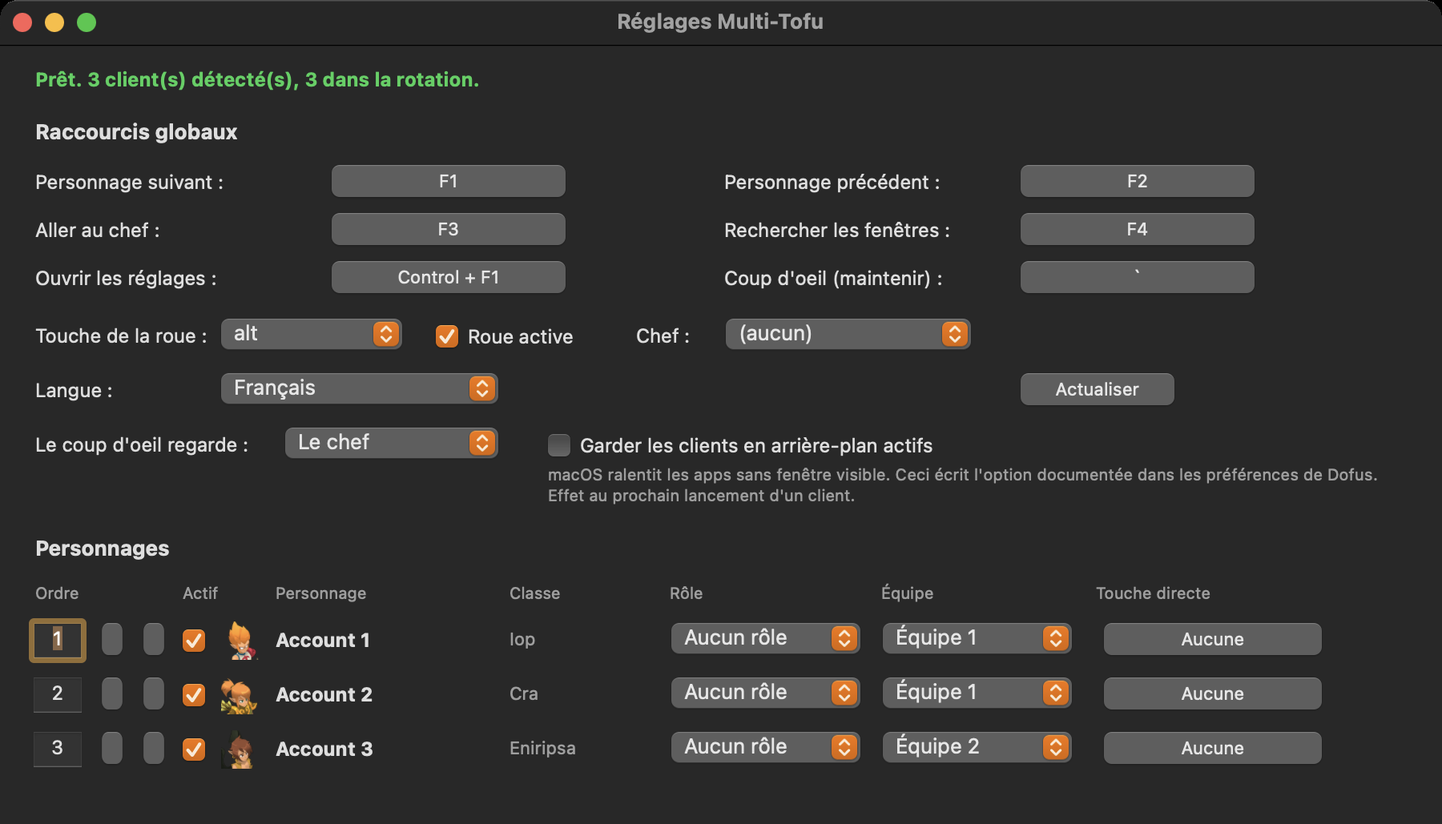
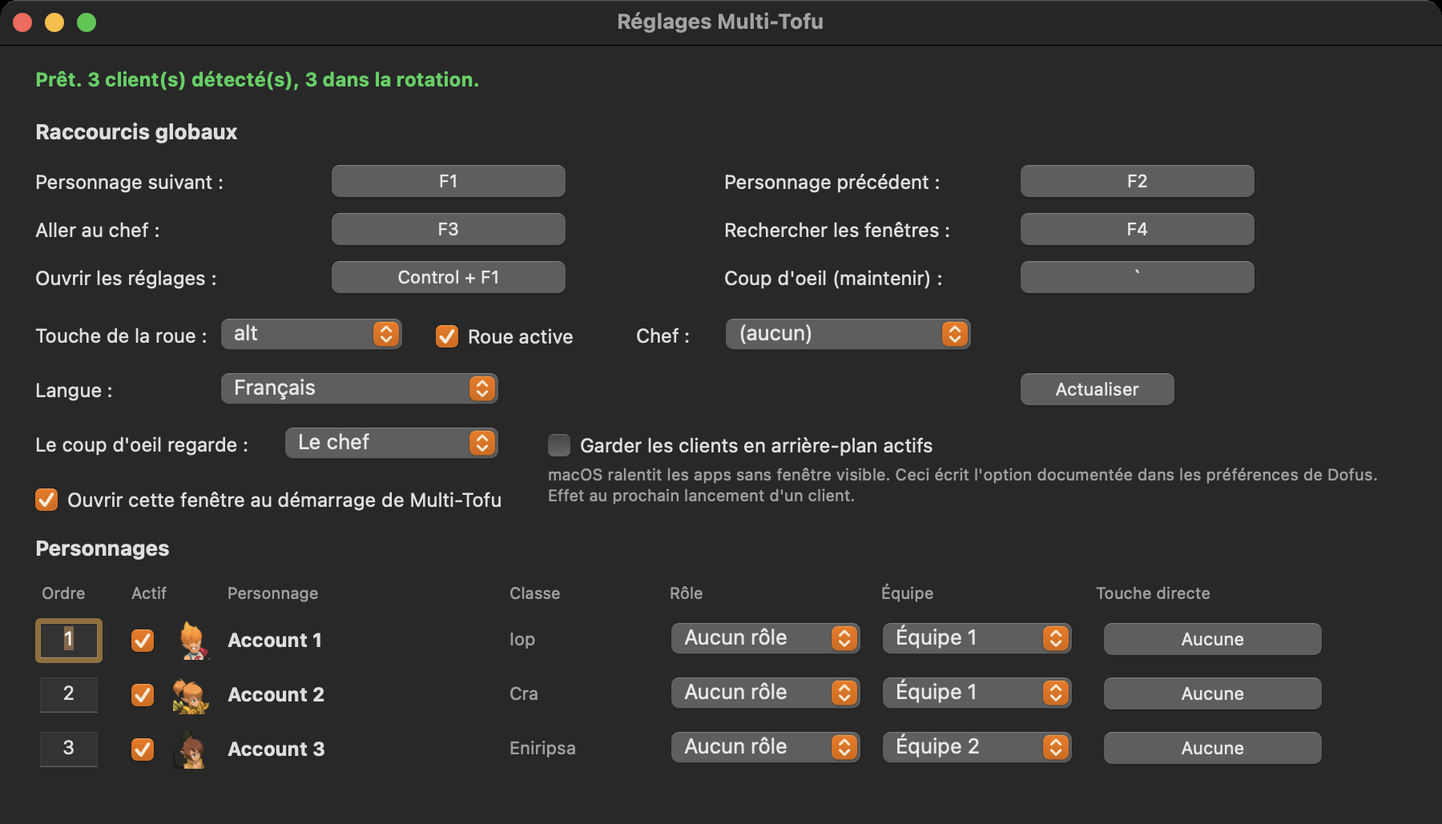
0.2.3: drop the dead reorder arrows, document 0.2.x everywhere
The two arrow buttons beside each character never rendered their glyphs
and the number field replaced what they did, so they were two blank grey
squares doing nothing visible. Removed, and the character columns close up.

Documentation catches up with everything shipped in 0.2.x:
  - the landing page gains cards for opening on launch and for one key one
    action, in all four languages. About 780 words a page, up from 730
  - the four readmes gain the same two entries
  - the settings screenshot is regenerated from the current build, with
    roles, teams, a leader and the position fields visible. The old one
    predated all of it and still named a character that no longer exists

Build
  - codesign is retried after a second attribute clean, and the signature
    is verified before the script reports success. PlistBuddy and
    PyInstaller both leave attributes that codesign refuses to sign over,
    which was failing silently and needing a manual re-sign

Changed region(s): [[0.0, 0.7153, 0.2489, 0.9329], [0.0, 0.5909, 0.3422, 0.622]]

diff --git a/docs/fr/index.html b/docs/fr/index.html
@@ -25,7 +25,7 @@
   <meta name="theme-color" content="#4a4076">
   <link rel="icon" type="image/png" sizes="32x32" href="../assets/favicon-32.png">
   <link rel="apple-touch-icon" href="../assets/apple-touch-icon.png">
-  <script type="application/ld+json">{"@context": "https://schema.org", "@type": "SoftwareApplication", "name": "Multi-Tofu", "applicationCategory": "UtilitiesApplication", "applicationSubCategory": "Game utility", "operatingSystem": "macOS 12 or later", "softwareVersion": "0.2.2", "url": "https://minutesback.github.io/multi-tofu/fr/", "downloadUrl": "https://github.com/MinutesBack/multi-tofu/releases/latest", "installUrl": "https://github.com/MinutesBack/multi-tofu/releases", "codeRepository": "https://github.com/MinutesBack/multi-tofu", "license": "https://www.apache.org/licenses/LICENSE-2.0", "isAccessibleForFree": true, "inLanguage": ["en", "fr", "es", "pt"], "description": "Outil multicompte Dofus gratuit et open source pour macOS. Basculez entre vos clients avec F1, roue des personnages et équipes. Apple Silicon et Intel.", "image": "https://minutesback.github.io/multi-tofu/assets/og-card.png", "offers": {"@type": "Offer", "price": "0", "priceCurrency": "USD"}, "author": {"@type": "Organization", "name": "MinutesBack", "url": "https://github.com/MinutesBack"}}</script>
+  <script type="application/ld+json">{"@context": "https://schema.org", "@type": "SoftwareApplication", "name": "Multi-Tofu", "applicationCategory": "UtilitiesApplication", "applicationSubCategory": "Game utility", "operatingSystem": "macOS 12 or later", "softwareVersion": "0.2.3", "url": "https://minutesback.github.io/multi-tofu/fr/", "downloadUrl": "https://github.com/MinutesBack/multi-tofu/releases/latest", "installUrl": "https://github.com/MinutesBack/multi-tofu/releases", "codeRepository": "https://github.com/MinutesBack/multi-tofu", "license": "https://www.apache.org/licenses/LICENSE-2.0", "isAccessibleForFree": true, "inLanguage": ["en", "fr", "es", "pt"], "description": "Outil multicompte Dofus gratuit et open source pour macOS. Basculez entre vos clients avec F1, roue des personnages et équipes. Apple Silicon et Intel.", "image": "https://minutesback.github.io/multi-tofu/assets/og-card.png", "offers": {"@type": "Offer", "price": "0", "priceCurrency": "USD"}, "author": {"@type": "Organization", "name": "MinutesBack", "url": "https://github.com/MinutesBack"}}</script>
   <style>
 :root{--grape:#4a4076;--grape-deep:#342c58;--grape-soft:#655a9e;--cream:#fff6e8;
 --sunny:#ffc94a;--mint:#5fe0b0;--ink:#2e2650;--muted:#6b6390;--card:#ffffff}
@@ -117,7 +117,7 @@ footer a{color:var(--cream)}
           <a class="btn" href="https://github.com/MinutesBack/multi-tofu/releases/latest">Télécharger pour macOS</a>
           <a class="btn-ghost" href="https://github.com/MinutesBack/multi-tofu">Voir le code source</a>
         </div>
-        <p class="sub">Gratuit et open source. Apple Silicon et Intel. Version 0.2.2.</p>
+        <p class="sub">Gratuit et open source. Apple Silicon et Intel. Version 0.2.3.</p>
       </div>
       <div class="hero-art">
         <img src="../wheel.png" alt="La roue des personnages de Multi-Tofu, six personnages Dofus en cercle avec celui survolé mis en avant" width="640" height="640">
@@ -140,6 +140,8 @@ footer a{color:var(--cream)}
       <div class="card"><h3>Coup d&#x27;oeil</h3><p>Maintenez une touche pour regarder un autre client, relâchez et vous revenez exactement où vous étiez, place dans la rotation comprise.</p></div>
       <div class="card"><h3>Ordre au clavier</h3><p>Tapez un numéro pour placer un personnage. Trier une équipe par initiative prend six frappes, pas vingt clics sur une flèche.</p></div>
       <div class="card"><h3>Tout est conservé</h3><p>Ordre, équipes, rôles, chef et chaque raccourci sont écrits sur le disque au fil de vos changements, par personnage. Revenez la semaine prochaine, rien n&#x27;a bougé.</p></div>
+      <div class="card"><h3>Ouvre sur vos réglages</h3><p>Lancer Multi-Tofu ouvre les réglages, on ne se demande jamais s&#x27;il a démarré. Désactivable en un clic si vous préférez le silence.</p></div>
+      <div class="card"><h3>Une touche, une action</h3><p>Attribuer une touche déjà prise la libère chez l&#x27;autre action. Deux actions sur une touche, c&#x27;est une des deux qui ne se déclenche jamais.</p></div>
     </div>
   </section>
 

diff --git a/docs/es/index.html b/docs/es/index.html
@@ -25,7 +25,7 @@
   <meta name="theme-color" content="#4a4076">
   <link rel="icon" type="image/png" sizes="32x32" href="../assets/favicon-32.png">
   <link rel="apple-touch-icon" href="../assets/apple-touch-icon.png">
-  <script type="application/ld+json">{"@context": "https://schema.org", "@type": "SoftwareApplication", "name": "Multi-Tofu", "applicationCategory": "UtilitiesApplication", "applicationSubCategory": "Game utility", "operatingSystem": "macOS 12 or later", "softwareVersion": "0.2.2", "url": "https://minutesback.github.io/multi-tofu/es/", "downloadUrl": "https://github.com/MinutesBack/multi-tofu/releases/latest", "installUrl": "https://github.com/MinutesBack/multi-tofu/releases", "codeRepository": "https://github.com/MinutesBack/multi-tofu", "license": "https://www.apache.org/licenses/LICENSE-2.0", "isAccessibleForFree": true, "inLanguage": ["en", "fr", "es", "pt"], "description": "Herramienta multicuenta de Dofus gratuita y de código abierto para macOS. Cambia de cliente con F1, rueda de personajes y equipos. Apple Silicon e Intel.", "image": "https://minutesback.github.io/multi-tofu/assets/og-card.png", "offers": {"@type": "Offer", "price": "0", "priceCurrency": "USD"}, "author": {"@type": "Organization", "name": "MinutesBack", "url": "https://github.com/MinutesBack"}}</script>
+  <script type="application/ld+json">{"@context": "https://schema.org", "@type": "SoftwareApplication", "name": "Multi-Tofu", "applicationCategory": "UtilitiesApplication", "applicationSubCategory": "Game utility", "operatingSystem": "macOS 12 or later", "softwareVersion": "0.2.3", "url": "https://minutesback.github.io/multi-tofu/es/", "downloadUrl": "https://github.com/MinutesBack/multi-tofu/releases/latest", "installUrl": "https://github.com/MinutesBack/multi-tofu/releases", "codeRepository": "https://github.com/MinutesBack/multi-tofu", "license": "https://www.apache.org/licenses/LICENSE-2.0", "isAccessibleForFree": true, "inLanguage": ["en", "fr", "es", "pt"], "description": "Herramienta multicuenta de Dofus gratuita y de código abierto para macOS. Cambia de cliente con F1, rueda de personajes y equipos. Apple Silicon e Intel.", "image": "https://minutesback.github.io/multi-tofu/assets/og-card.png", "offers": {"@type": "Offer", "price": "0", "priceCurrency": "USD"}, "author": {"@type": "Organization", "name": "MinutesBack", "url": "https://github.com/MinutesBack"}}</script>
   <style>
 :root{--grape:#4a4076;--grape-deep:#342c58;--grape-soft:#655a9e;--cream:#fff6e8;
 --sunny:#ffc94a;--mint:#5fe0b0;--ink:#2e2650;--muted:#6b6390;--card:#ffffff}
@@ -117,7 +117,7 @@ footer a{color:var(--cream)}
           <a class="btn" href="https://github.com/MinutesBack/multi-tofu/releases/latest">Descargar para macOS</a>
           <a class="btn-ghost" href="https://github.com/MinutesBack/multi-tofu">Ver el código</a>
         </div>
-        <p class="sub">Gratis y de código abierto. Apple Silicon e Intel. Versión 0.2.2.</p>
+        <p class="sub">Gratis y de código abierto. Apple Silicon e Intel. Versión 0.2.3.</p>
       </div>
       <div class="hero-art">
         <img src="../wheel.png" alt="La rueda de personajes de Multi-Tofu, seis personajes de Dofus en círculo con el señalado resaltado" width="640" height="640">
@@ -140,6 +140,8 @@ footer a{color:var(--cream)}
       <div class="card"><h3>Vistazo</h3><p>Mantén una tecla para mirar otro cliente, suéltala y vuelves justo donde estabas, con tu posición en la rotación intacta.</p></div>
       <div class="card"><h3>Orden por número</h3><p>Escribe una posición para colocar un personaje. Ordenar un equipo por iniciativa son seis pulsaciones, no veinte clics en una flecha.</p></div>
       <div class="card"><h3>Se guarda solo</h3><p>Orden, equipos, roles, líder y cada atajo se escriben en disco según los cambias, por personaje. Vuelve la semana que viene y sigue igual.</p></div>
+      <div class="card"><h3>Abre donde lo dejaste</h3><p>Abrir Multi-Tofu muestra los ajustes, así nunca parece que no ha pasado nada. Se desactiva en un clic si prefieres que no aparezca.</p></div>
+      <div class="card"><h3>Una tecla, una acción</h3><p>Asignar una tecla que ya tiene otro atajo se la quita a ese. Dos acciones en una tecla significa que una nunca se activa.</p></div>
     </div>
   </section>
 

diff --git a/docs/pt/index.html b/docs/pt/index.html
@@ -25,7 +25,7 @@
   <meta name="theme-color" content="#4a4076">
   <link rel="icon" type="image/png" sizes="32x32" href="../assets/favicon-32.png">
   <link rel="apple-touch-icon" href="../assets/apple-touch-icon.png">
-  <script type="application/ld+json">{"@context": "https://schema.org", "@type": "SoftwareApplication", "name": "Multi-Tofu", "applicationCategory": "UtilitiesApplication", "applicationSubCategory": "Game utility", "operatingSystem": "macOS 12 or later", "softwareVersion": "0.2.2", "url": "https://minutesback.github.io/multi-tofu/pt/", "downloadUrl": "https://github.com/MinutesBack/multi-tofu/releases/latest", "installUrl": "https://github.com/MinutesBack/multi-tofu/releases", "codeRepository": "https://github.com/MinutesBack/multi-tofu", "license": "https://www.apache.org/licenses/LICENSE-2.0", "isAccessibleForFree": true, "inLanguage": ["en", "fr", "es", "pt"], "description": "Ferramenta multiconta de Dofus gratuita e open source para macOS. Troque de cliente com F1, roda de personagens e times. Apple Silicon e Intel.", "image": "https://minutesback.github.io/multi-tofu/assets/og-card.png", "offers": {"@type": "Offer", "price": "0", "priceCurrency": "USD"}, "author": {"@type": "Organization", "name": "MinutesBack", "url": "https://github.com/MinutesBack"}}</script>
+  <script type="application/ld+json">{"@context": "https://schema.org", "@type": "SoftwareApplication", "name": "Multi-Tofu", "applicationCategory": "UtilitiesApplication", "applicationSubCategory": "Game utility", "operatingSystem": "macOS 12 or later", "softwareVersion": "0.2.3", "url": "https://minutesback.github.io/multi-tofu/pt/", "downloadUrl": "https://github.com/MinutesBack/multi-tofu/releases/latest", "installUrl": "https://github.com/MinutesBack/multi-tofu/releases", "codeRepository": "https://github.com/MinutesBack/multi-tofu", "license": "https://www.apache.org/licenses/LICENSE-2.0", "isAccessibleForFree": true, "inLanguage": ["en", "fr", "es", "pt"], "description": "Ferramenta multiconta de Dofus gratuita e open source para macOS. Troque de cliente com F1, roda de personagens e times. Apple Silicon e Intel.", "image": "https://minutesback.github.io/multi-tofu/assets/og-card.png", "offers": {"@type": "Offer", "price": "0", "priceCurrency": "USD"}, "author": {"@type": "Organization", "name": "MinutesBack", "url": "https://github.com/MinutesBack"}}</script>
   <style>
 :root{--grape:#4a4076;--grape-deep:#342c58;--grape-soft:#655a9e;--cream:#fff6e8;
 --sunny:#ffc94a;--mint:#5fe0b0;--ink:#2e2650;--muted:#6b6390;--card:#ffffff}
@@ -117,7 +117,7 @@ footer a{color:var(--cream)}
           <a class="btn" href="https://github.com/MinutesBack/multi-tofu/releases/latest">Baixar para macOS</a>
           <a class="btn-ghost" href="https://github.com/MinutesBack/multi-tofu">Ver o código</a>
         </div>
-        <p class="sub">Grátis e open source. Apple Silicon e Intel. Versão 0.2.2.</p>
+        <p class="sub">Grátis e open source. Apple Silicon e Intel. Versão 0.2.3.</p>
       </div>
       <div class="hero-art">
         <img src="../wheel.png" alt="A roda de personagens do Multi-Tofu, seis personagens de Dofus em círculo com o destacado em evidência" width="640" height="640">
@@ -140,6 +140,8 @@ footer a{color:var(--cream)}
       <div class="card"><h3>Espiada</h3><p>Segure uma tecla para olhar outro cliente, solte e você volta exatamente para onde estava, com sua posição na rotação intacta.</p></div>
       <div class="card"><h3>Ordem por número</h3><p>Digite uma posição para colocar um personagem. Ordenar um time por iniciativa são seis toques, não vinte cliques numa seta.</p></div>
       <div class="card"><h3>Fica salvo</h3><p>Ordem, times, funções, líder e cada atalho são gravados em disco conforme você muda, por personagem. Volte semana que vem e está igual.</p></div>
+      <div class="card"><h3>Abre onde você parou</h3><p>Abrir o Multi-Tofu mostra os ajustes, então nunca parece que nada aconteceu. Desligue num clique se preferir que fique quieto.</p></div>
+      <div class="card"><h3>Uma tecla, uma ação</h3><p>Atribuir uma tecla que outro atalho já tem libera ela lá. Duas ações numa tecla significa que uma nunca dispara.</p></div>
     </div>
   </section>
 

diff --git a/docs/index.html b/docs/index.html
@@ -25,7 +25,7 @@
   <meta name="theme-color" content="#4a4076">
   <link rel="icon" type="image/png" sizes="32x32" href="assets/favicon-32.png">
   <link rel="apple-touch-icon" href="assets/apple-touch-icon.png">
-  <script type="application/ld+json">{"@context": "https://schema.org", "@type": "SoftwareApplication", "name": "Multi-Tofu", "applicationCategory": "UtilitiesApplication", "applicationSubCategory": "Game utility", "operatingSystem": "macOS 12 or later", "softwareVersion": "0.2.2", "url": "https://minutesback.github.io/multi-tofu/", "downloadUrl": "https://github.com/MinutesBack/multi-tofu/releases/latest", "installUrl": "https://github.com/MinutesBack/multi-tofu/releases", "codeRepository": "https://github.com/MinutesBack/multi-tofu", "license": "https://www.apache.org/licenses/LICENSE-2.0", "isAccessibleForFree": true, "inLanguage": ["en", "fr", "es", "pt"], "description": "Free open source Dofus multi-account tool for macOS. Switch clients instantly with F1, a radial character wheel and team rotation. Apple Silicon and Intel.", "image": "https://minutesback.github.io/multi-tofu/assets/og-card.png", "offers": {"@type": "Offer", "price": "0", "priceCurrency": "USD"}, "author": {"@type": "Organization", "name": "MinutesBack", "url": "https://github.com/MinutesBack"}}</script>
+  <script type="application/ld+json">{"@context": "https://schema.org", "@type": "SoftwareApplication", "name": "Multi-Tofu", "applicationCategory": "UtilitiesApplication", "applicationSubCategory": "Game utility", "operatingSystem": "macOS 12 or later", "softwareVersion": "0.2.3", "url": "https://minutesback.github.io/multi-tofu/", "downloadUrl": "https://github.com/MinutesBack/multi-tofu/releases/latest", "installUrl": "https://github.com/MinutesBack/multi-tofu/releases", "codeRepository": "https://github.com/MinutesBack/multi-tofu", "license": "https://www.apache.org/licenses/LICENSE-2.0", "isAccessibleForFree": true, "inLanguage": ["en", "fr", "es", "pt"], "description": "Free open source Dofus multi-account tool for macOS. Switch clients instantly with F1, a radial character wheel and team rotation. Apple Silicon and Intel.", "image": "https://minutesback.github.io/multi-tofu/assets/og-card.png", "offers": {"@type": "Offer", "price": "0", "priceCurrency": "USD"}, "author": {"@type": "Organization", "name": "MinutesBack", "url": "https://github.com/MinutesBack"}}</script>
   <style>
 :root{--grape:#4a4076;--grape-deep:#342c58;--grape-soft:#655a9e;--cream:#fff6e8;
 --sunny:#ffc94a;--mint:#5fe0b0;--ink:#2e2650;--muted:#6b6390;--card:#ffffff}
@@ -117,7 +117,7 @@ footer a{color:var(--cream)}
           <a class="btn" href="https://github.com/MinutesBack/multi-tofu/releases/latest">Download for macOS</a>
           <a class="btn-ghost" href="https://github.com/MinutesBack/multi-tofu">View the source</a>
         </div>
-        <p class="sub">Free and open source. Apple Silicon and Intel. Version 0.2.2.</p>
+        <p class="sub">Free and open source. Apple Silicon and Intel. Version 0.2.3.</p>
       </div>
       <div class="hero-art">
         <img src="wheel.png" alt="The Multi-Tofu character wheel, six Dofus characters in a circle with the hovered one highlighted" width="640" height="640">
@@ -140,6 +140,8 @@ footer a{color:var(--cream)}
       <div class="card"><h3>Peek</h3><p>Hold one key to look at another client, release and you are back where you were, rotation position intact.</p></div>
       <div class="card"><h3>Order by number</h3><p>Type a position to place a character. Sorting a team by initiative is six keystrokes, not twenty arrow clicks.</p></div>
       <div class="card"><h3>It stays saved</h3><p>Order, teams, roles, leader and every shortcut are written to disk as you change them, keyed by character. Come back next week and it is as you left it.</p></div>
+      <div class="card"><h3>Opens where you left it</h3><p>Launching Multi-Tofu opens Settings, so it never looks like nothing happened. Turn that off in one click if you would rather it stayed quiet.</p></div>
+      <div class="card"><h3>One key, one action</h3><p>Assigning a key that another shortcut holds frees it there. Two actions on one key means one of them silently never fires.</p></div>
     </div>
   </section>
 

diff --git a/tools/site_content.py b/tools/site_content.py
@@ -4,7 +4,7 @@ SITE = "https://minutesback.github.io/multi-tofu/"
 REPO = "https://github.com/MinutesBack/multi-tofu"
 RELEASES = REPO + "/releases"
 DOWNLOAD = REPO + "/releases/latest"
-VERSION = "0.2.2"
+VERSION = "0.2.3"
 
 LANGS = ["en", "fr", "es", "pt"]
 LANG_NAMES = {"en": "English", "fr": "Français", "es": "Español", "pt": "Português"}
@@ -31,6 +31,8 @@ CONTENT = {
    ("Peek", "Hold one key to look at another client, release and you are back where you were, rotation position intact."),
    ("Order by number", "Type a position to place a character. Sorting a team by initiative is six keystrokes, not twenty arrow clicks."),
    ("It stays saved", "Order, teams, roles, leader and every shortcut are written to disk as you change them, keyed by character. Come back next week and it is as you left it."),
+   ("Opens where you left it", "Launching Multi-Tofu opens Settings, so it never looks like nothing happened. Turn that off in one click if you would rather it stayed quiet."),
+   ("One key, one action", "Assigning a key that another shortcut holds frees it there. Two actions on one key means one of them silently never fires."),
  ],
  "names_title": "It learns your characters by itself",
  "names_body": "You never type a character name. Multi-Tofu reads the Dofus window title, so the moment a character logs in their real name appears in the wheel, in the menu bar and in the settings list. A client that is open but still sitting on the login screen has no character on it yet, so it shows as Account 1, Account 2 and so on. Those stay clickable in the menu, so you can jump to one and log it in, but they are kept out of the F1 rotation. A keypress never lands you on a window with no character on it.",
@@ -80,6 +82,8 @@ CONTENT = {
    ("Coup d'oeil", "Maintenez une touche pour regarder un autre client, relâchez et vous revenez exactement où vous étiez, place dans la rotation comprise."),
    ("Ordre au clavier", "Tapez un numéro pour placer un personnage. Trier une équipe par initiative prend six frappes, pas vingt clics sur une flèche."),
    ("Tout est conservé", "Ordre, équipes, rôles, chef et chaque raccourci sont écrits sur le disque au fil de vos changements, par personnage. Revenez la semaine prochaine, rien n'a bougé."),
+   ("Ouvre sur vos réglages", "Lancer Multi-Tofu ouvre les réglages, on ne se demande jamais s'il a démarré. Désactivable en un clic si vous préférez le silence."),
+   ("Une touche, une action", "Attribuer une touche déjà prise la libère chez l'autre action. Deux actions sur une touche, c'est une des deux qui ne se déclenche jamais."),
  ],
  "names_title": "Il reconnaît vos personnages tout seul",
  "names_body": "Vous ne saisissez jamais un pseudo. Multi-Tofu lit le titre de la fenêtre Dofus, donc dès qu'un personnage se connecte son vrai nom apparaît dans la roue, dans la barre des menus et dans les réglages. Un client ouvert mais resté sur l'écran de connexion n'a pas encore de personnage, il s'affiche donc en Compte 1, Compte 2 et ainsi de suite. Ces entrées restent cliquables dans le menu, vous pouvez y aller pour vous connecter, mais elles sont exclues de la rotation F1. Une touche ne vous envoie jamais sur une fenêtre sans personnage.",
@@ -129,6 +133,8 @@ CONTENT = {
    ("Vistazo", "Mantén una tecla para mirar otro cliente, suéltala y vuelves justo donde estabas, con tu posición en la rotación intacta."),
    ("Orden por número", "Escribe una posición para colocar un personaje. Ordenar un equipo por iniciativa son seis pulsaciones, no veinte clics en una flecha."),
    ("Se guarda solo", "Orden, equipos, roles, líder y cada atajo se escriben en disco según los cambias, por personaje. Vuelve la semana que viene y sigue igual."),
+   ("Abre donde lo dejaste", "Abrir Multi-Tofu muestra los ajustes, así nunca parece que no ha pasado nada. Se desactiva en un clic si prefieres que no aparezca."),
+   ("Una tecla, una acción", "Asignar una tecla que ya tiene otro atajo se la quita a ese. Dos acciones en una tecla significa que una nunca se activa."),
  ],
  "names_title": "Reconoce tus personajes solo",
  "names_body": "Nunca escribes un nombre. Multi-Tofu lee el título de la ventana de Dofus, así que en cuanto un personaje inicia sesión su nombre real aparece en la rueda, en la barra de menús y en los ajustes. Un cliente abierto pero todavía en la pantalla de conexión no tiene personaje, así que se muestra como Cuenta 1, Cuenta 2 y así. Siguen siendo clicables en el menú, puedes ir a conectarte, pero quedan fuera de la rotación de F1. Una pulsación nunca te lleva a una ventana sin personaje.",
@@ -178,6 +184,8 @@ CONTENT = {
    ("Espiada", "Segure uma tecla para olhar outro cliente, solte e você volta exatamente para onde estava, com sua posição na rotação intacta."),
    ("Ordem por número", "Digite uma posição para colocar um personagem. Ordenar um time por iniciativa são seis toques, não vinte cliques numa seta."),
    ("Fica salvo", "Ordem, times, funções, líder e cada atalho são gravados em disco conforme você muda, por personagem. Volte semana que vem e está igual."),
+   ("Abre onde você parou", "Abrir o Multi-Tofu mostra os ajustes, então nunca parece que nada aconteceu. Desligue num clique se preferir que fique quieto."),
+   ("Uma tecla, uma ação", "Atribuir uma tecla que outro atalho já tem libera ela lá. Duas ações numa tecla significa que uma nunca dispara."),
  ],
  "names_title": "Ele reconhece seus personagens sozinho",
  "names_body": "Você nunca digita um nome. O Multi-Tofu lê o título da janela do Dofus, então assim que um personagem entra o nome real dele aparece na roda, na barra de menus e nos ajustes. Um cliente aberto mas ainda na tela de login não tem personagem, então aparece como Conta 1, Conta 2 e assim por diante. Eles continuam clicáveis no menu, você pode ir lá fazer login, mas ficam fora da rotação do F1. Uma tecla nunca leva você para uma janela sem personagem.",

diff --git a/multitofu/prefs.py b/multitofu/prefs.py
@@ -168,8 +168,8 @@ class PrefsController(NSObject):
 
         content.addSubview_(label(t("characters"), 20, 306, 200, 20, bold=True, size=13))
         muted = NSColor.secondaryLabelColor()
-        for text, col_x, width in [(t("col_order"), 4, 86), (t("col_on"), 96, 40),
-                                   (t("col_character"), 154, 140),
+        for text, col_x, width in [(t("col_order"), 8, 40), (t("col_on"), 64, 40),
+                                   (t("col_character"), 124, 165),
                                    (t("col_class"), 300, 95),
                                    (t("role_label"), 400, 125),
                                    (t("col_team"), 532, 125),
@@ -232,7 +232,7 @@ class PrefsController(NSObject):
             y = i * ROW_HEIGHT + 4
             # type a number to place a character, which beats clicking an
             # arrow six times to sort a team by initiative
-            position = NSTextField.alloc().initWithFrame_(NSMakeRect(4, y, 32, 24))
+            position = NSTextField.alloc().initWithFrame_(NSMakeRect(8, y, 38, 24))
             position.setStringValue_("" if acc["is_menu"] else str(rank.get(acc["name"], "")))
             position.setAlignment_(1)  # centred
             position.setEditable_(not acc["is_menu"])
@@ -242,12 +242,7 @@ class PrefsController(NSObject):
             position.setTag_(i)
             self.rows_view.addSubview_(position)
 
-            self.rows_view.addSubview_(
-                button("\u25b2", 42, y, 24, 24, self, "moveUp:", i))
-            self.rows_view.addSubview_(
-                button("\u25bc", 68, y, 24, 24, self, "moveDown:", i))
-
-            check = NSButton.alloc().initWithFrame_(NSMakeRect(96, y, 22, 24))
+            check = NSButton.alloc().initWithFrame_(NSMakeRect(64, y, 22, 24))
             check.setButtonType_(NSSwitchButton)
             check.setTitle_("")
             check.setState_(1 if acc["active"] else 0)
@@ -256,13 +251,13 @@ class PrefsController(NSObject):
             check.setTag_(i)
             self.rows_view.addSubview_(check)
 
-            icon_view = NSImageView.alloc().initWithFrame_(NSMakeRect(122, y, 24, 24))
+            icon_view = NSImageView.alloc().initWithFrame_(NSMakeRect(92, y, 24, 24))
             icon_view.setImage_(load_icon(acc.get("slug")))
             icon_view.setImageScaling_(NSImageScaleProportionallyUpOrDown)
             self.rows_view.addSubview_(icon_view)
 
             self.rows_view.addSubview_(
-                label(acc["name"], 154, y + 4, 140, 18, bold=not acc["is_menu"]))
+                label(acc["name"], 124, y + 4, 165, 18, bold=not acc["is_menu"]))
             self.rows_view.addSubview_(
                 label(acc.get("class_name") or "-", 300, y + 4, 95, 18, size=11,
                       color=NSColor.secondaryLabelColor()))

diff --git a/tools/make_screenshots.py b/tools/make_screenshots.py
@@ -19,16 +19,16 @@ from multitofu.radial import Wheel
 ROOT = os.path.dirname(os.path.dirname(os.path.abspath(__file__)))
 DOCS = os.path.join(ROOT, "docs")
 
-CAST = [("Account 1", "Iop", "Team 1"), ("Account 2", "Cra", "Team 1"),
-        ("Account 3", "Eniripsa", "Team 1"), ("Account 4", "Sacrieur", "Team 2"),
-        ("Account 5", "Xelor", "Team 2"), ("Account 6", "Sadida", "Team 2")]
+CAST = [("Account 1", "Iop", "Team 1", "damage"), ("Account 2", "Cra", "Team 1", "damage"),
+        ("Account 3", "Eniripsa", "Team 1", "healer"), ("Account 4", "Sacrieur", "Team 2", "tank"),
+        ("Account 5", "Xelor", "Team 2", "support"), ("Account 6", "Sadida", "Team 2", "scout")]
 
 
 def fake_accounts():
     return [Account({"name": n, "pid": 0, "window": None,
                      "title": f"{n} - {c} - 3.6.10.11 - Release",
                      "class_name": c, "slug": to_slug(c), "active": True,
-                     "team": t, "is_menu": False}) for n, c, t in CAST]
+                     "team": t, "role": r, "is_menu": False}) for n, c, t, r in CAST]
 
 
 def save_view(view, path):
@@ -42,7 +42,8 @@ def save_view(view, path):
 
 class Shots(NSObject):
     def wheel_(self, timer):
-        entries = [{"name": n, "slug": to_slug(c)} for n, c, _ in CAST]
+        entries = [{"name": n, "slug": to_slug(c), "role": r, "class_name": c}
+                   for n, c, _, r in CAST]
         wheel = Wheel(self.app.config)
         wheel._ensure_panel()
         wheel.entries = entries
@@ -57,7 +58,8 @@ class Shots(NSObject):
     def prefs_(self, timer):
         self.app.scan_timer and self.app.scan_timer.invalidate()
         self.app.scanner.accounts = fake_accounts()
-        self.app.config.data["leader_name"] = "Bakuryu"
+        self.app.config.data["leader_name"] = "Account 1"
+        self.app.config.data["roles"] = {n: r for n, _, _, r in CAST}
         self.app.prefs.show()
 
     def grabPrefs_(self, timer):

diff --git a/multitofu/__init__.py b/multitofu/__init__.py
@@ -1,3 +1,3 @@
 """Multi-Tofu - Dofus multi-account window switcher for macOS."""
-__version__ = "0.2.2"
+__version__ = "0.2.3"
 APP_NAME = "Multi-Tofu"

diff --git a/README.fr.md b/README.fr.md
@@ -35,6 +35,10 @@ donc tout est réécrit sur l'API d'Accessibilité macOS, un CGEventTap et AppKi
   et vous revenez où vous étiez, place dans la rotation comprise.
 - **Ordre au clavier.** Tapez un numéro pour placer un personnage, pratique
   quand l'ordre suit l'initiative et non l'ordre d'ouverture des clients.
+- **Ouvre sur vos réglages.** Lancer Multi-Tofu ouvre les réglages, on ne se
+  demande jamais s'il a démarré. Un clic pour désactiver.
+- **Une touche, une action.** Attribuer une touche déjà prise la libère chez
+  l'autre action, plutôt que d'en laisser une qui ne se déclenche jamais.
 
 ## Où sont enregistrés vos réglages
 

diff --git a/README.md b/README.md
@@ -35,6 +35,10 @@ and AppKit.
   follows initiative rather than the order clients happened to open.
 - **Stays saved.** Order, teams, roles, leader and every shortcut are written to
   disk as you change them. Log out, come back tomorrow, it is all still there.
+- **Opens where you left it.** Launching Multi-Tofu opens Settings, so it never
+  looks like nothing happened. One click turns that off.
+- **One key, one action.** Assigning a key another shortcut holds frees it
+  there, rather than leaving two actions on one key where only one ever fires.
 
 ## Where your setup lives
 

diff --git a/README.es.md b/README.es.md
@@ -35,6 +35,10 @@ CGEventTap y AppKit.
   donde estabas, con tu posición en la rotación intacta.
 - **Orden por número.** Escribe una posición para colocar un personaje, útil
   cuando el orden sigue la iniciativa y no el orden en que abriste los clientes.
+- **Abre donde lo dejaste.** Abrir Multi-Tofu muestra los ajustes, así nunca
+  parece que no ha pasado nada. Un clic para desactivarlo.
+- **Una tecla, una acción.** Asignar una tecla que ya tiene otro atajo se la
+  quita a ese, en vez de dejar una acción que nunca se activa.
 
 ## Dónde se guardan tus ajustes
 

diff --git a/README.pt.md b/README.pt.md
@@ -35,6 +35,10 @@ o AppKit.
   para onde estava, com sua posição na rotação intacta.
 - **Ordem por número.** Digite uma posição para colocar um personagem, útil
   quando a ordem segue a iniciativa e não a ordem em que você abriu os clientes.
+- **Abre onde você parou.** Abrir o Multi-Tofu mostra os ajustes, então nunca
+  parece que nada aconteceu. Um clique desliga isso.
+- **Uma tecla, uma ação.** Atribuir uma tecla que outro atalho já tem libera ela
+  lá, em vez de deixar uma ação que nunca dispara.
 
 ## Onde ficam seus ajustes
 
